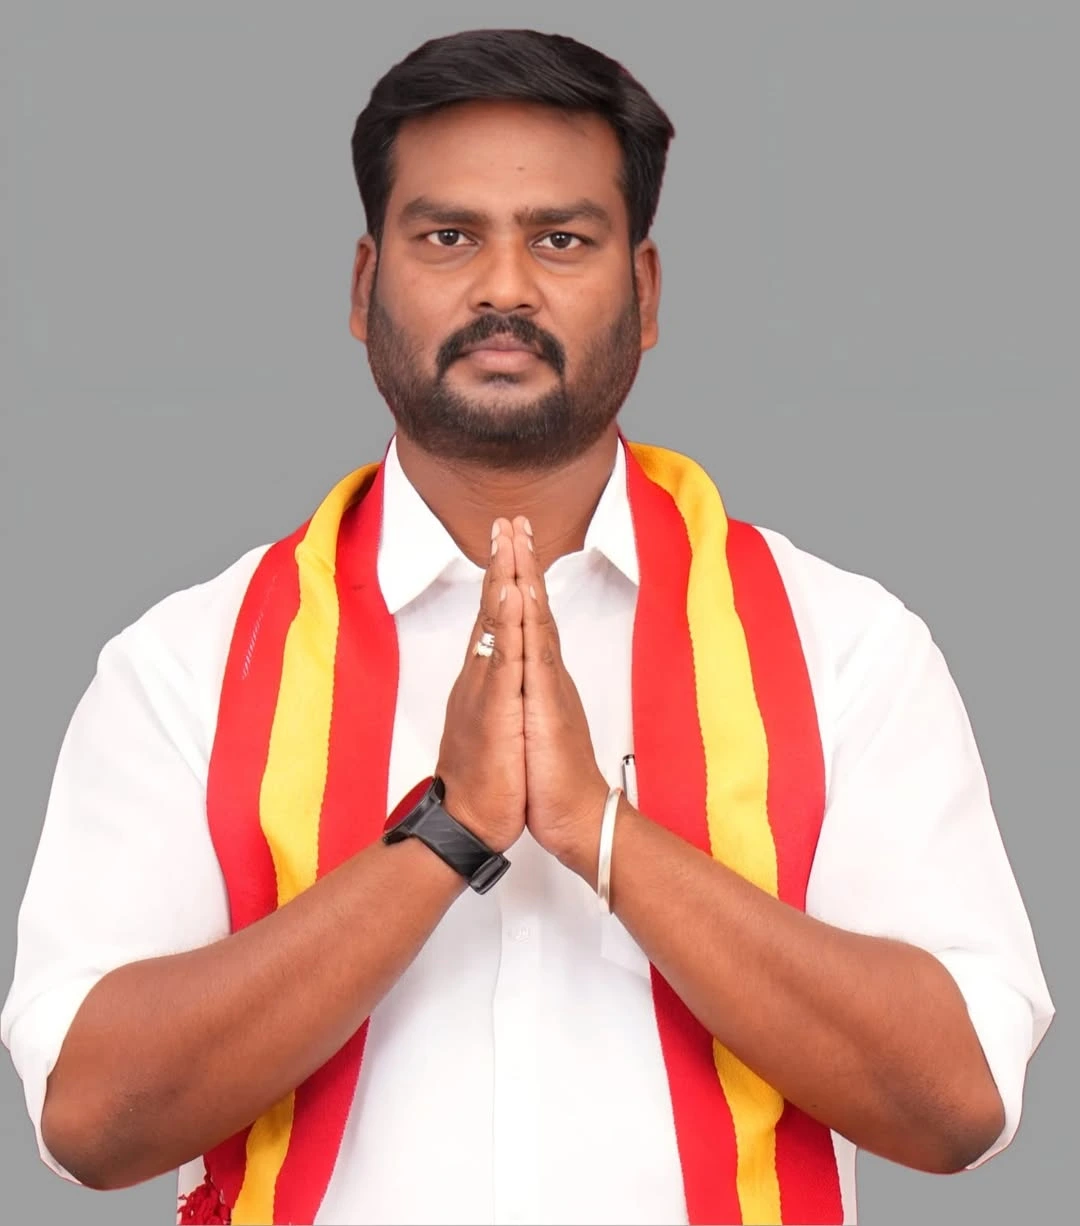
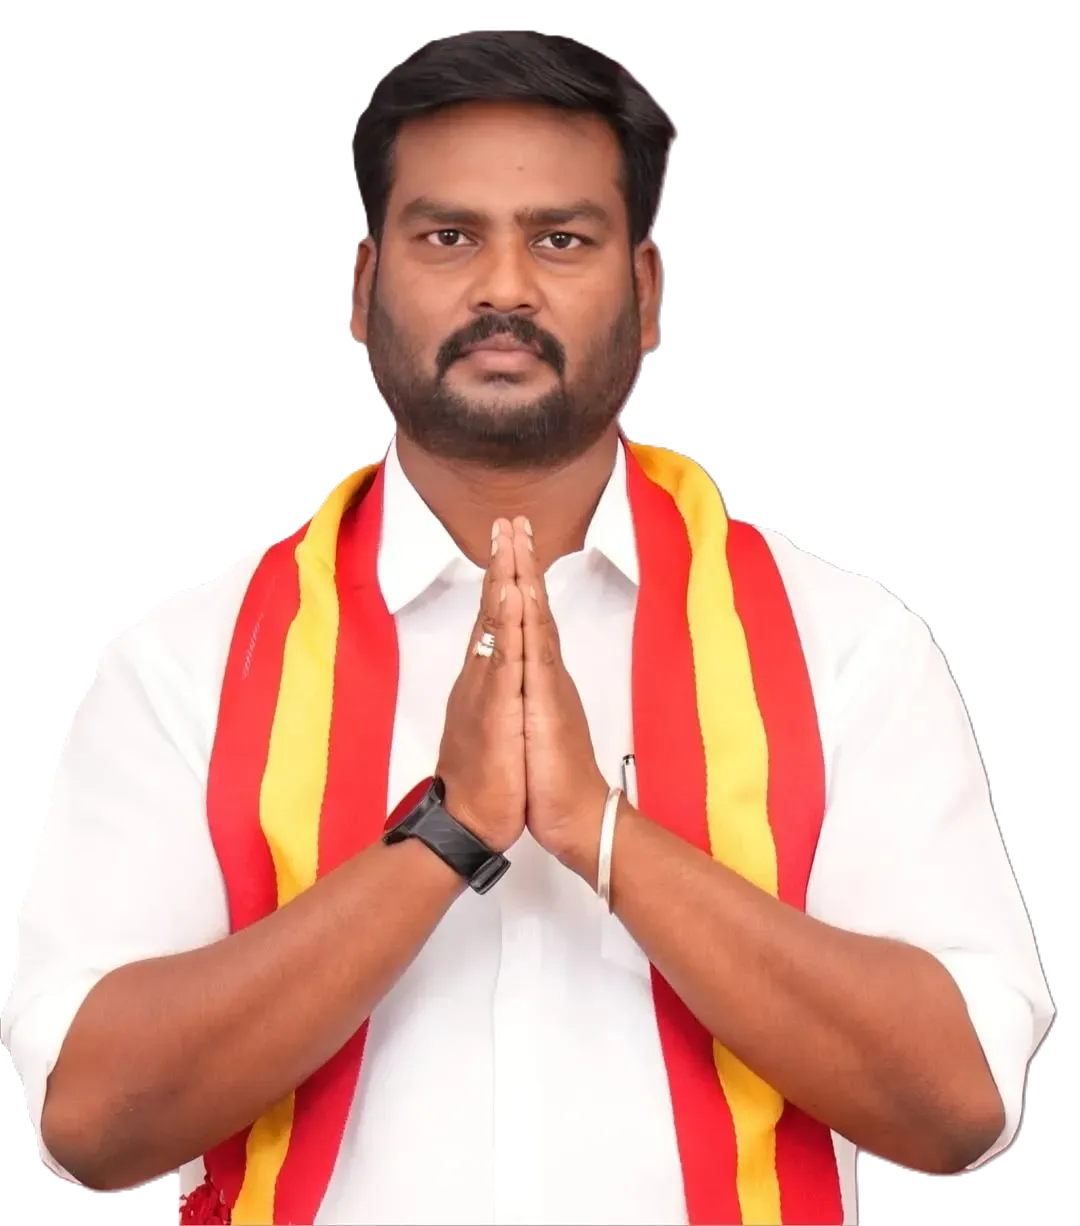
images optimized

diff --git a/src/components/Hero.tsx b/src/components/Hero.tsx
@@ -2,9 +2,9 @@ import React from "react";
 import TvkFamily from "@/assets/crowd.webp";
 import Whistle from "@/assets/tvk-whistle.webp";
 import leaders from "@/assets/leaders.png";
-import candidate from "@/assets/candidate-rakesh.png";
+import candidate from "@/assets/candidate-rakesh.webp";
 // import Vijay from "@/assets/tvk-chief-vijay.png";
-import Vijay from "@/assets/thalapathy.png";
+import Vijay from "@/assets/thalapathy.webp";
 import { useLang } from "@/lib/LanguageContext";
 import { ChevronDownCircle,ChevronRightCircle } from "lucide-react";
 const heroTranslations = {

diff --git a/src/components/AboutCandidate.tsx b/src/components/AboutCandidate.tsx
@@ -1,4 +1,4 @@
-import candidate from "@/assets/candidate-rakesh-tvk.png";
+import candidate from "@/assets/candidate-rakesh-tvk.webp";
 import { useLang } from "@/lib/LanguageContext";
 
 const aboutTranslations = {
